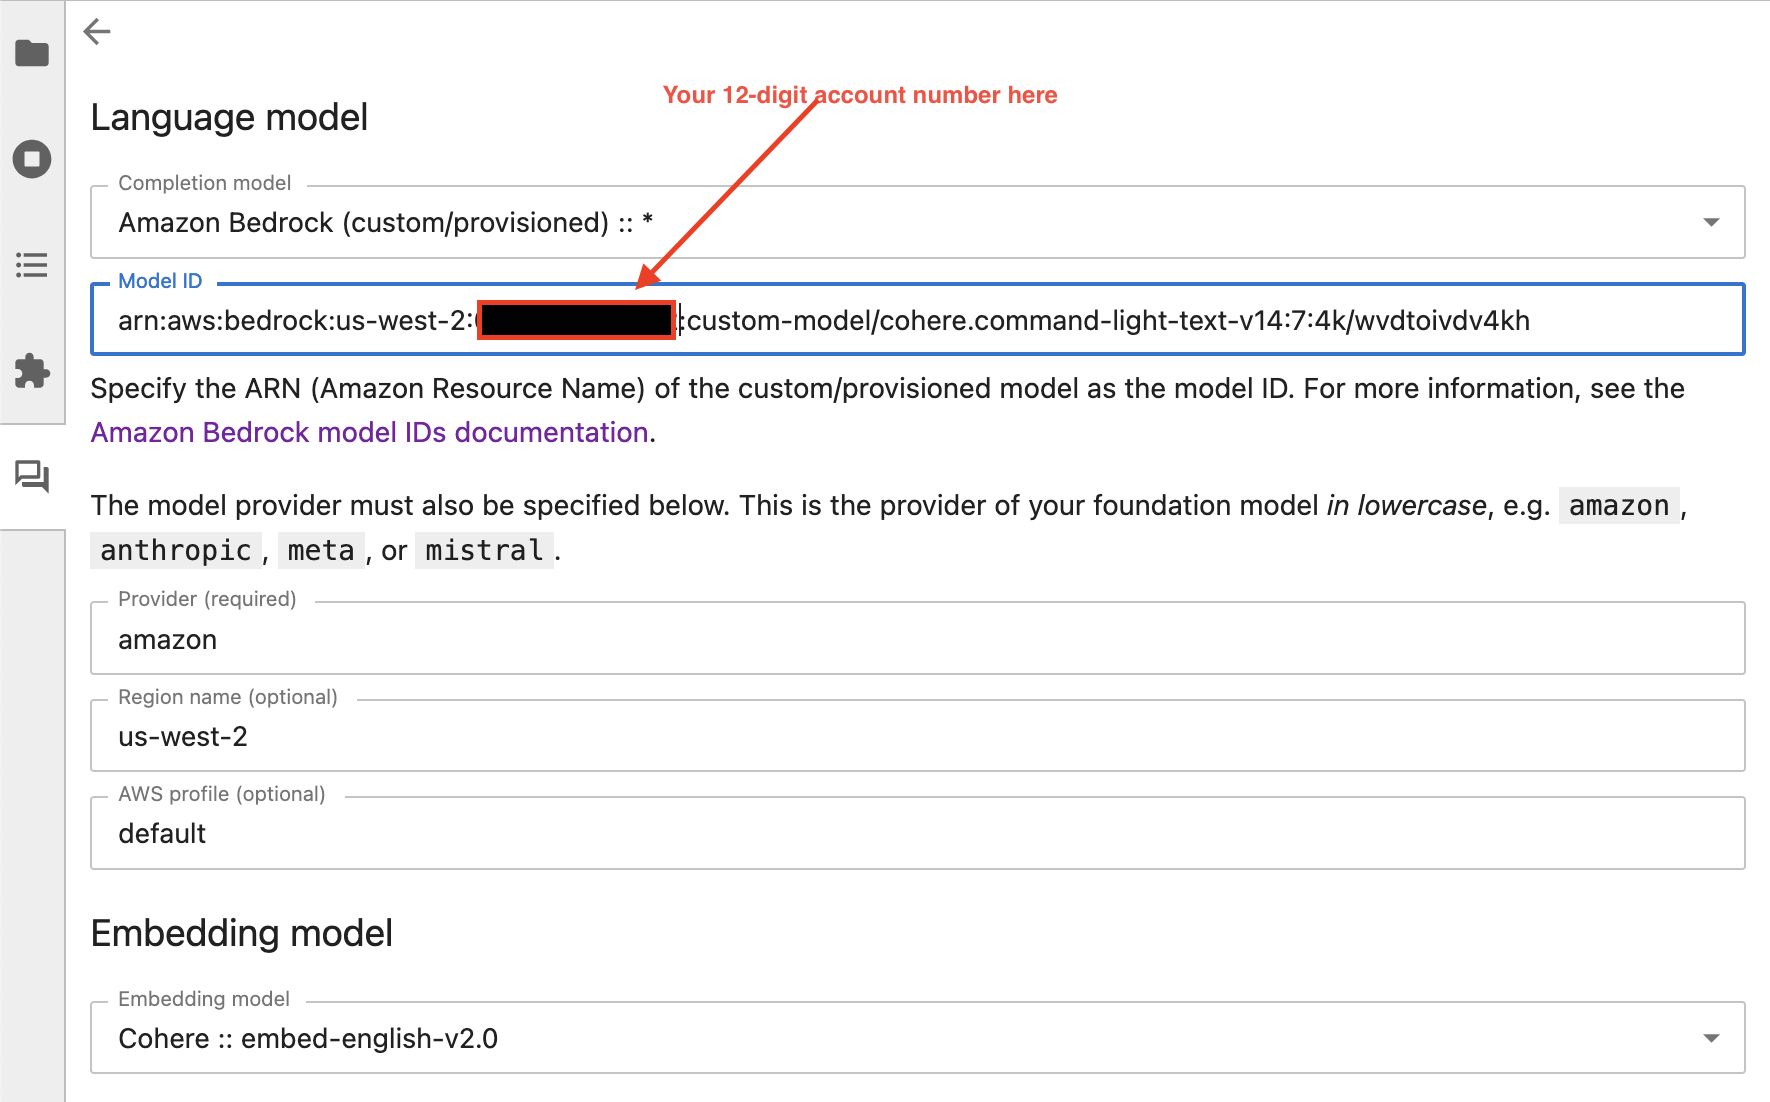
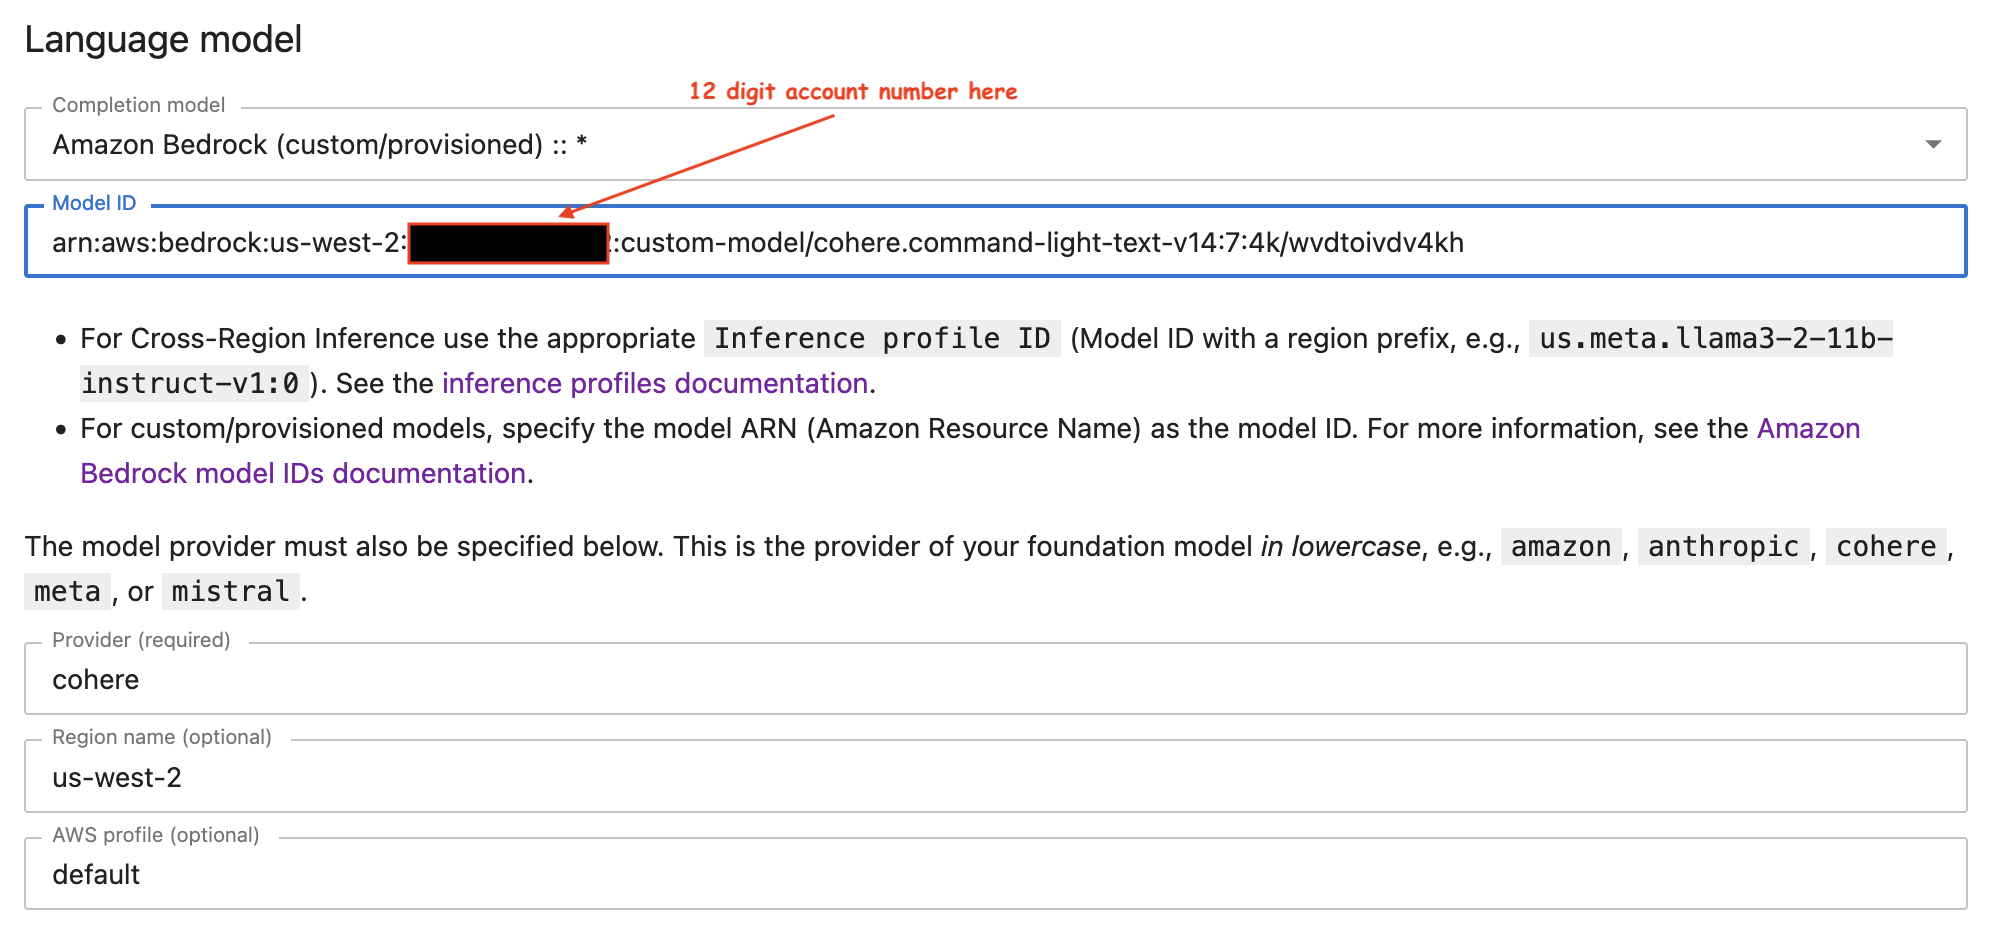
Updated UI and documentation for Amazon Bedrock Cross Region Inference

diff --git a/packages/jupyter-ai-magics/jupyter_ai_magics/partner_providers/aws.py b/packages/jupyter-ai-magics/jupyter_ai_magics/partner_providers/aws.py
@@ -124,8 +124,9 @@ class BedrockCustomProvider(BaseProvider, ChatBedrock):
         ),
     ]
     help = (
-        "Specify the ARN (Amazon Resource Name) of the custom/provisioned model as the model ID. For more information, see the [Amazon Bedrock model IDs documentation](https://docs.aws.amazon.com/bedrock/latest/userguide/model-ids.html).\n\n"
-        "The model provider must also be specified below. This is the provider of your foundation model *in lowercase*, e.g. `amazon`, `anthropic`, `meta`, or `mistral`."
+        "- For Cross-Region Inference use the appropriate `Inference profile ID` (Model ID with a region prefix, e.g., `us.meta.llama3-2-11b-instruct-v1:0`). See the [inference profiles documentation](https://docs.aws.amazon.com/bedrock/latest/userguide/inference-profiles-support.html). \n"
+        "- For custom/provisioned models, specify the model ARN (Amazon Resource Name) as the model ID. For more information, see the [Amazon Bedrock model IDs documentation](https://docs.aws.amazon.com/bedrock/latest/userguide/model-ids.html).\n\n"
+        "The model provider must also be specified below. This is the provider of your foundation model *in lowercase*, e.g., `amazon`, `anthropic`, `cohere`, `meta`, or `mistral`."
     )
     registry = True
 

diff --git a/docs/source/users/index.md b/docs/source/users/index.md
@@ -349,14 +349,19 @@ You may now select a chosen Bedrock model from the drop-down menu box title `Com
 
 If your provider requires an API key, please enter it in the box that will show for that provider. Make sure to click on `Save Changes` to ensure that the inputs have been saved.
 
-Bedrock also allows custom models to be trained from scratch or fine-tuned from a base model. Jupyter AI enables a custom model to be called in the chat panel using its `arn` (Amazon Resource Name). The interface is shown below:
+Bedrock also allows custom models to be trained from scratch or fine-tuned from a base model. Jupyter AI enables a custom model to be called in the chat panel using its `arn` (Amazon Resource Name, ARN). The interface is shown below:
 
 <img src="../_static/bedrock-chat-custom-model-arn.png"
     width="75%"
     alt='Screenshot of the Jupyter AI chat panel where the custom model is selected using model arn.'
     class="screenshot" />
 
-For detailed workflows, see [Using Amazon Bedrock with Jupter AI](bedrock.md).
+Note that:
+1. Bedrock Base models: All available models will already be available in the drop down model list. The above interface also allows use of base model IDs or ARNs, though this is unnecessary as they are in the dropdown list. 
+2. Bedrock Custom models: If you have fine-tuned a Bedrock base model you may use the ARN for this custom model. Make sure to enter the correct provider information, such as `amazon`, `anthropic`, `cohere`, `meta`, `mistral` (always in lower case).  
+3. Provisioned Models: These are models that run on dedicated endpoints. Users can purchase Provisioned Throughput Model Units to get faster throughput. These may be base or custom models. Enter the ARN for these models in the Model ID field. 
+
+For detailed workflows, including the creation and use of custom models, see [Using Amazon Bedrock with Jupter AI](bedrock.md).
 
 
 ### SageMaker endpoints usage

diff --git a/docs/source/users/bedrock.md b/docs/source/users/bedrock.md
@@ -57,4 +57,9 @@ Once the model is fine-tuned, it will have its own `arn`, as shown below:
 
 As seen above, you may click on `Purchase provisioned throughput` to buy inference units with which to call the custom model's API. Enter the model's `arn` in Jupyter AI's Language model user interface to use the provisioned model.
 
+In summary:
+1. Bedrock Base models: All available models will already be available in the drop down model list. The above interface also allows use of base model IDs or ARNs, though this is unnecessary as they are in the dropdown list. 
+2. Bedrock Custom models: If you have fine-tuned a Bedrock base model you may use the ARN for this custom model. Make sure to enter the correct provider information, such as `amazon`, `anthropic`, `cohere`, `meta`, `mistral` (always in lower case).  
+3. Provisioned Models: These are models that run on dedicated endpoints. Users can purchase Provisioned Throughput Model Units to get faster throughput. These may be base or custom models. Enter the ARN for these models in the Model ID field. 
+
 [(Return to Chat Interface page for Bedrock)](index.md#amazon-bedrock-usage)
